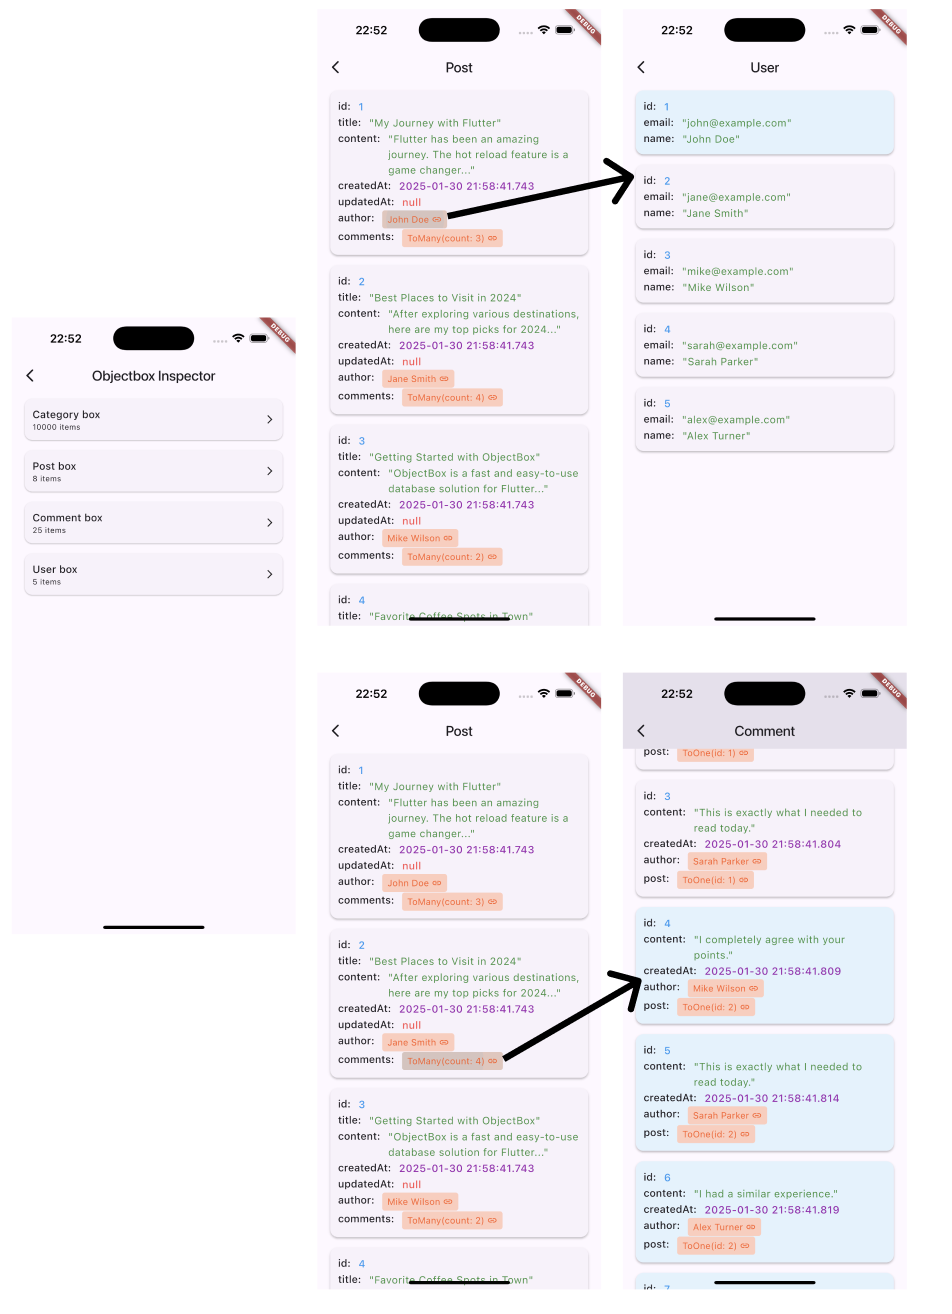
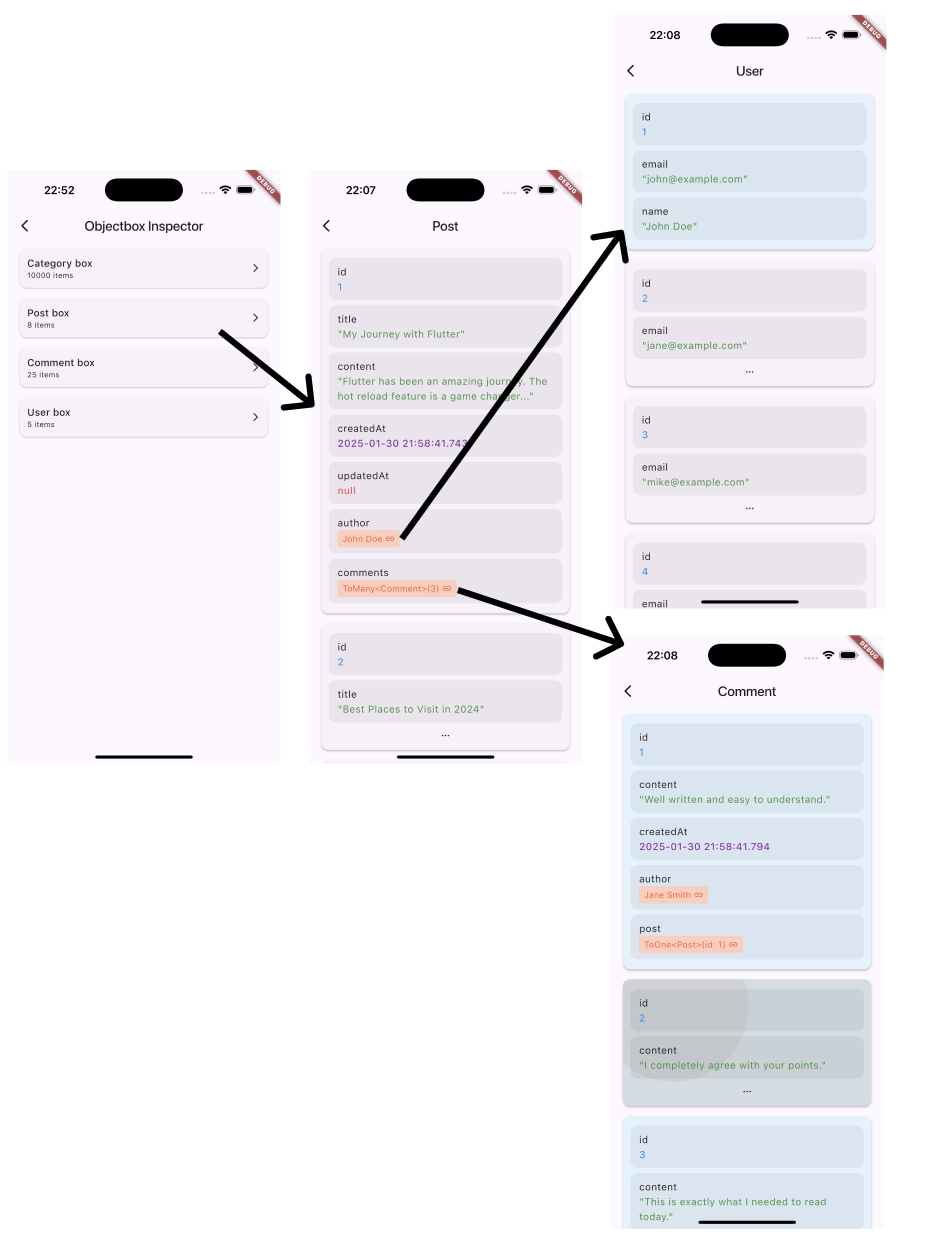
published v0.0.8

diff --git a/objectbox_inspector/CHANGELOG.md b/objectbox_inspector/CHANGELOG.md
@@ -1,3 +1,7 @@
+## 0.0.8
+
+* Updates demo picture to fit new ui.
+
 ## 0.0.7
 
 * Fixes generator for older versions of the SDK

diff --git a/objectbox_inspector_generator/CHANGELOG.md b/objectbox_inspector_generator/CHANGELOG.md
@@ -1,3 +1,7 @@
+## 0.0.8
+
+* Updates demo picture to fit new ui.
+
 ## 0.0.7
 
 * Fixes generator for older versions of the SDK
